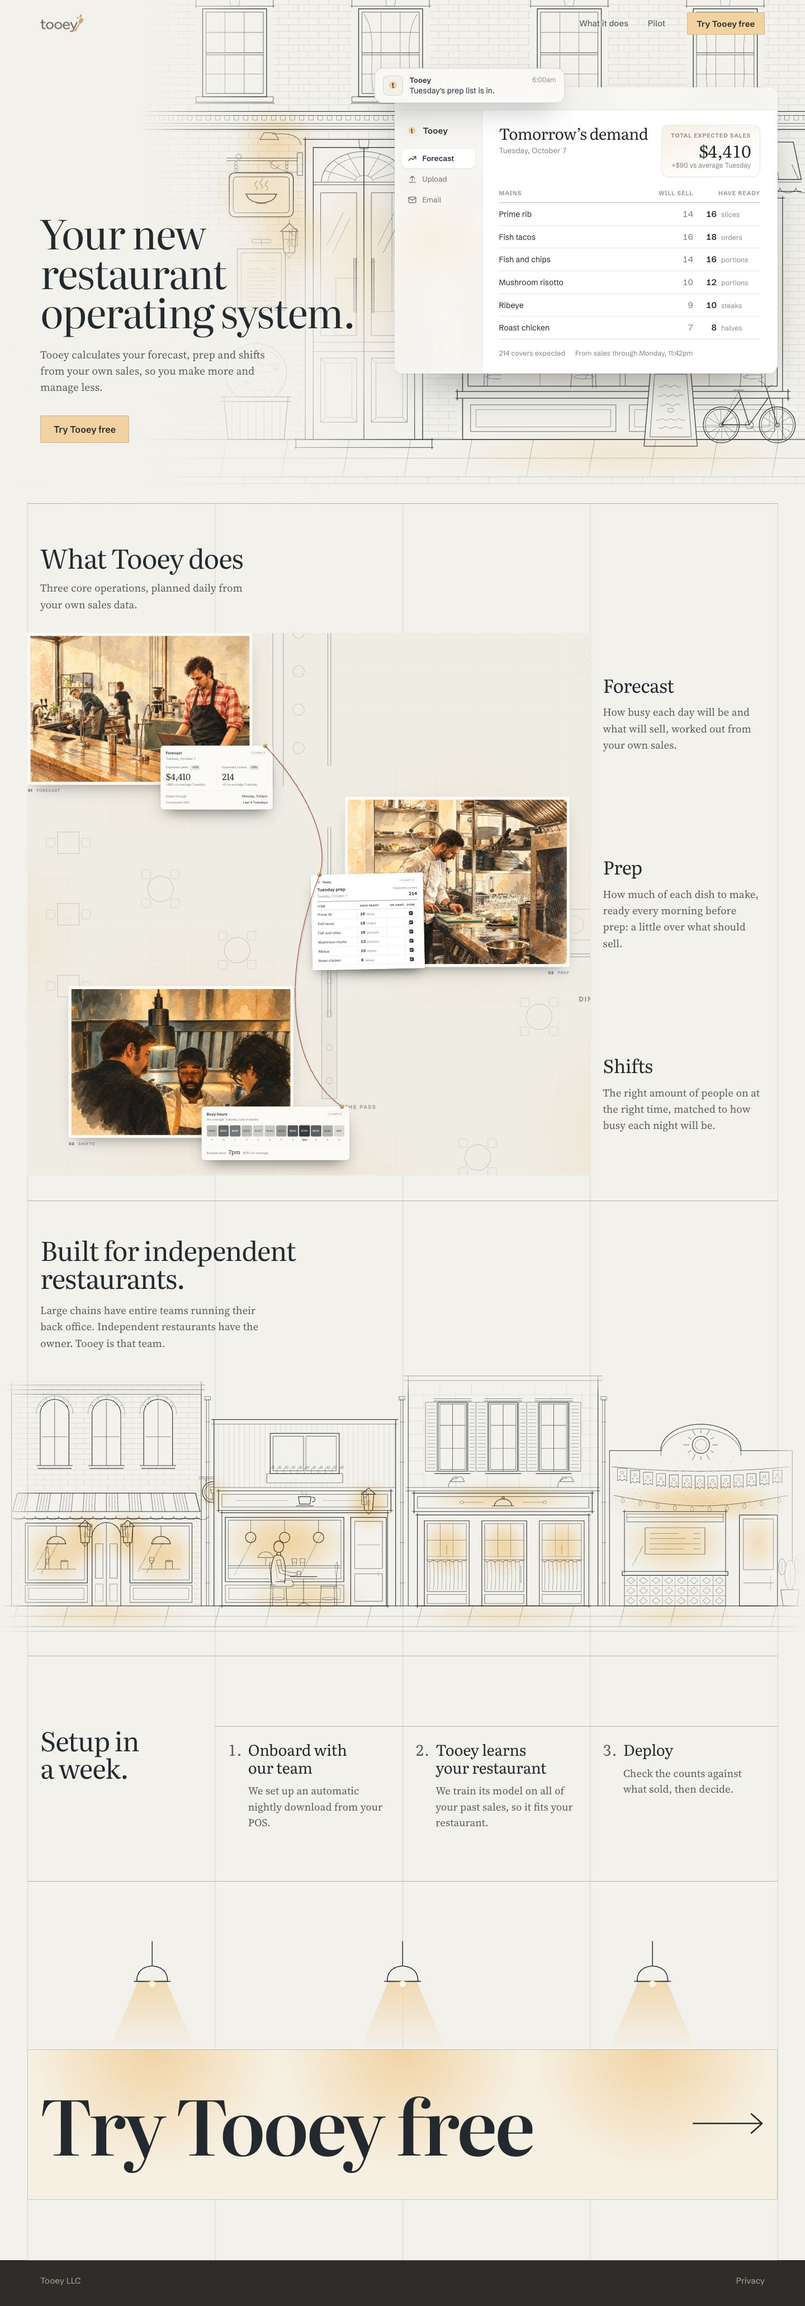
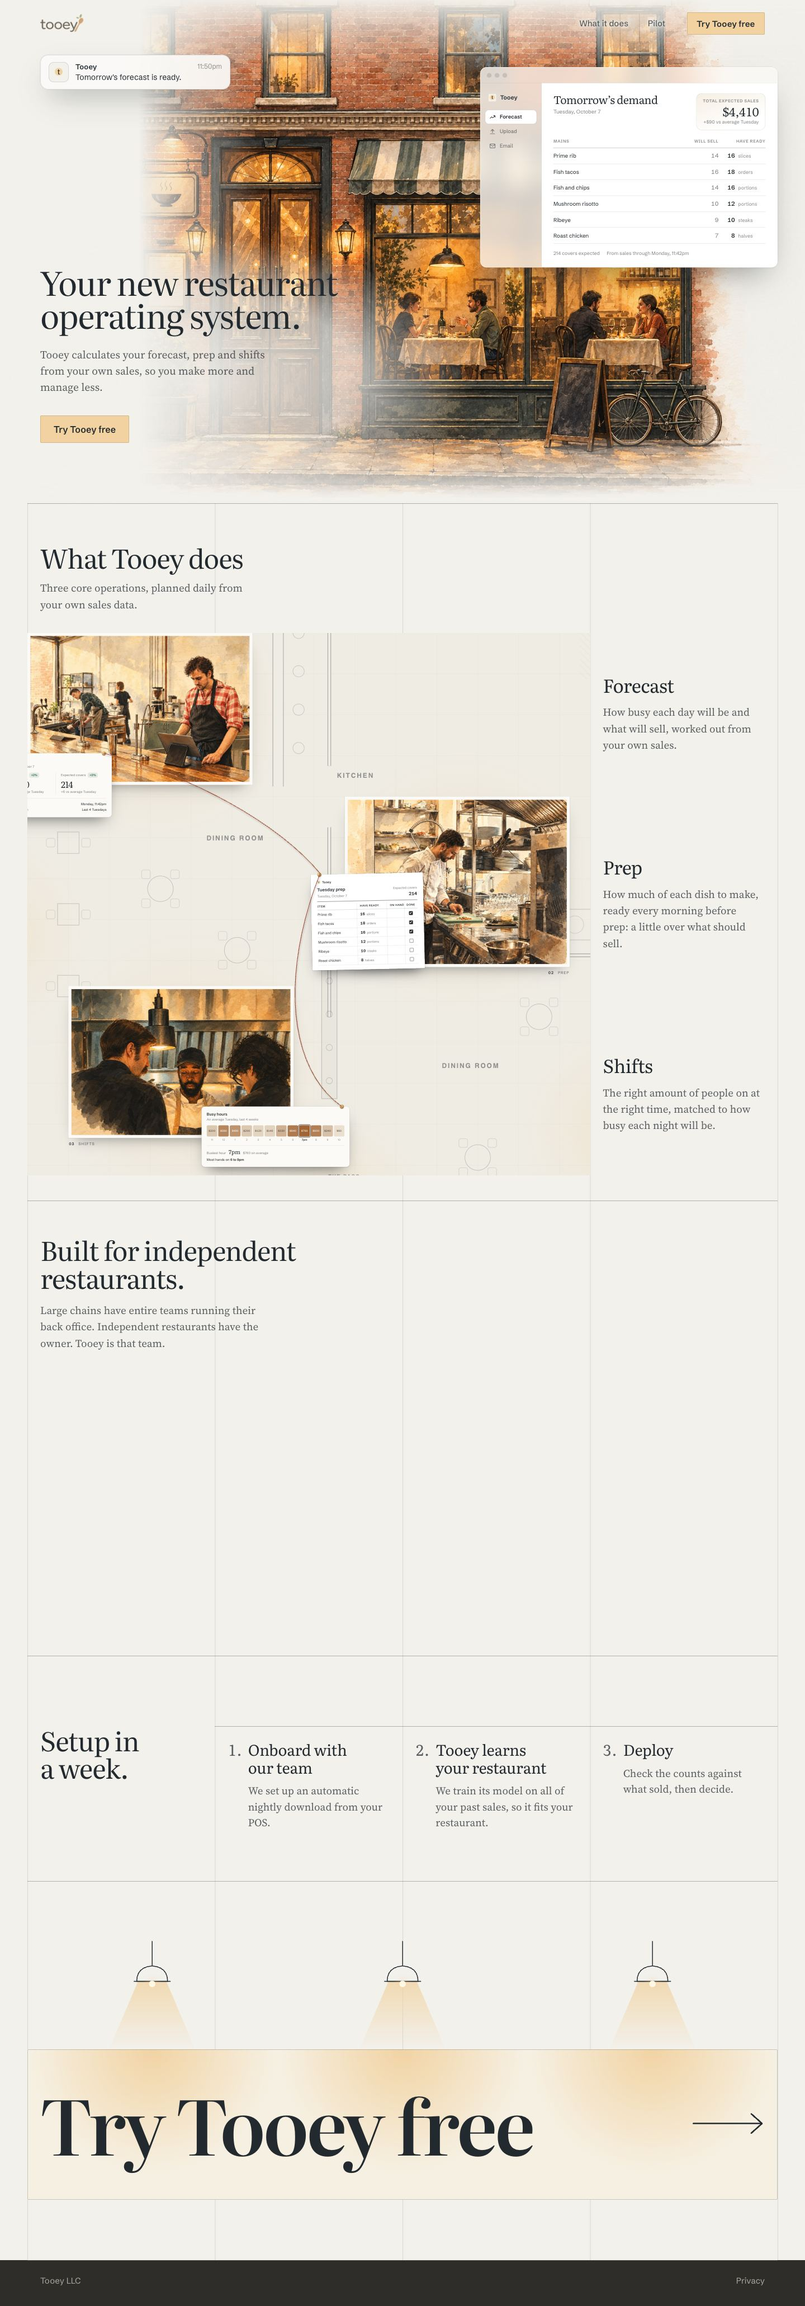
Exploration 49: painted street and shops, night-before notification, cards that point at the scene
The hero front and the four independents are ink and watercolour paintings
like the three scenes; the line drawings stay at ?art=line. The console
window is smaller and up over the first floor so the door and diners show.
Its notification moves to Monday 11:50pm to agree with Tomorrow's demand.
Headline one step smaller. Forecast card on the empty bar, prep sheet half
ticked, busy hours in paper to amber with a staffing line, plan labels
clear of the glass and pins. Gallery shot retaken.

diff --git a/explorations/49-ink/styles.css b/explorations/49-ink/styles.css
@@ -401,10 +401,10 @@ html:not(.motion) .steam { stroke-opacity: .3; }
 .hero h1 {
   font-family: var(--display);
   font-weight: 400;
-  font-size: clamp(2.9rem, 5vw, 5.2rem);
-  line-height: .98;
-  letter-spacing: -.028em;
-  max-width: 9em;
+  font-size: clamp(2.5rem, 4.1vw, 4.3rem);
+  line-height: 1;
+  letter-spacing: -.026em;
+  max-width: 11em;
   text-wrap: balance;
 }
 .lead {
@@ -611,10 +611,12 @@ html:not(.motion) .steam { stroke-opacity: .3; }
   background: radial-gradient(circle at 35% 30%, #f6dcae, #b8874a 60%, #7a5428);
   box-shadow: 0 2px 3px rgba(10, 14, 18, .35);
 }
-.c-forecast .pin, .c-hours .pin { right: 22px; top: -8px; }
+.c-hours .pin { right: 22px; top: -8px; }
+.c-forecast .pin { right: 22px; top: -8px; }
 .c-sheet .pin { left: 26px; top: -8px; }
 /* the cards on the board, by scene */
-.board .c-forecast { left: 520px; top: 440px; width: 440px; bottom: auto; }
+/* on the empty bar in the foreground, clear of the laptop he is reading */
+.board .c-forecast { left: -110px; top: 470px; width: 440px; bottom: auto; }
 .board .c-sheet { left: -130px; top: 300px; width: 440px; bottom: auto; }
 .board .c-hours { left: 520px; top: 470px; width: 580px; bottom: auto; transform: none; }
 .board .card { z-index: 3; }
@@ -721,16 +723,18 @@ html:not(.motion) .steam { stroke-opacity: .3; }
   display: grid; place-items: center;
   width: 100%; height: 44px; border-radius: 5px;
   font-size: 10.5px; font-weight: 500;
-  background: color-mix(in srgb, var(--slate) calc(var(--v) * 92%), #e9e7e0);
+  background: color-mix(in srgb, #9c5a26 calc(var(--v) * 94%), #f1ebdd);
   color: rgba(35, 42, 47, .75);
 }
 .heat-cell.is-dark b { color: #fbfaf7; }
 .heat-cell i { font-style: normal; font-size: 10.5px; color: rgba(35, 42, 47, .55); }
 .heat-cell.is-peak i { color: var(--slate); font-weight: 600; }
-.heat-cell.is-peak b { box-shadow: 0 0 0 2px #fbfaf7, 0 0 0 3.5px var(--lamp); }
+.heat-cell.is-peak b { box-shadow: 0 0 0 2px #fbfaf7, 0 0 0 3.5px var(--slate); }
 .c-busiest { display: flex; align-items: baseline; gap: 10px; margin-top: 14px; padding-top: 12px; border-top: 1px solid var(--rule); font-size: 13px; color: rgba(35, 42, 47, .62); }
 .c-busiest b { font: 400 22px/1 var(--display); color: var(--slate); }
 .c-busiest .c-note { margin: 0; }
+.c-staff { margin-top: 8px !important; font-size: 13px; color: var(--slate); }
+.c-staff b { font-weight: 600; }
 
 /* ---------- the cards play when the camera reaches their scene ----------
    The cards stay pinned up all along; what is on them plays. */
@@ -740,6 +744,9 @@ html:not(.motion) .steam { stroke-opacity: .3; }
 .prep-sheet tr:nth-child(2) .box { --i: 1; } .prep-sheet tr:nth-child(3) .box { --i: 2; } .prep-sheet tr:nth-child(4) .box { --i: 3; }
 .prep-sheet tr:nth-child(5) .box { --i: 4; } .prep-sheet tr:nth-child(6) .box { --i: 5; }
 .motion .work.is-pinned .shot.play .box::after { animation: fade .2s calc(1.9s + var(--i, 0) * 260ms) both; }
+/* half way through the morning: three made, three to go */
+.c-sheet tr:nth-child(n+4) .box, .motion .work.is-pinned .shot.play .c-sheet tr:nth-child(n+4) .box { background: transparent; animation: none; }
+.c-sheet tr:nth-child(n+4) .box::after { display: none; }
 /* hours: the day fills in, left to right */
 .motion .work.is-pinned .shot:not(.play) .heat-cell b { opacity: 0; }
 .motion .work.is-pinned .shot.play .heat-cell b { animation: cell .5s calc(.9s + var(--i) * 70ms) cubic-bezier(.2, .8, .2, 1) both; }
@@ -747,7 +754,7 @@ html:not(.motion) .steam { stroke-opacity: .3; }
 
 @keyframes tick-box { from { background: transparent; } to { background: var(--slate); } }
 @keyframes cell { from { opacity: 0; transform: scaleY(.4); } to { opacity: 1; transform: none; } }
-@keyframes peak { from { box-shadow: 0 0 0 2px #fbfaf7, 0 0 0 3.5px rgba(241, 210, 160, 0); } to { box-shadow: 0 0 0 2px #fbfaf7, 0 0 0 3.5px var(--lamp); } }
+@keyframes peak { from { box-shadow: 0 0 0 2px #fbfaf7, 0 0 0 3.5px rgba(35, 42, 47, 0); } to { box-shadow: 0 0 0 2px #fbfaf7, 0 0 0 3.5px var(--slate); } }
 @keyframes fade { from { opacity: 0; } to { opacity: 1; } }
 
 /* ---------- the hero: the console over the street ----------
@@ -757,8 +764,10 @@ html:not(.motion) .steam { stroke-opacity: .3; }
 [data-hero="console"] .hero-os [data-hero="console"],
 [data-hero="mail"] .hero-os [data-hero="mail"],
 [data-hero="sheet"] .hero-os [data-hero="sheet"] { display: block; }
+.hero-os .h-console { left: auto; width: 760px; top: calc(var(--top) + 4vh); scale: .7; transform-origin: right top; }
 
-/* a window, glass at the chrome, running off the right edge */
+/* a window, glass at the chrome, up over the first floor so the door and
+   the lit dining room stay in view */
 .h-win {
   position: absolute; left: 49vw; right: var(--g); top: calc(var(--top) + 8vh);
   border-radius: 16px;
@@ -845,6 +854,7 @@ html:not(.motion) .steam { stroke-opacity: .3; }
 .note-mark img { width: 22px; height: 22px; }
 .note-text b { display: block; font-weight: 600; font-size: 13px; }
 .note-time { align-self: start; font-size: 12px; color: rgba(35, 42, 47, .5); }
+[data-hero="console"] .note-morning, html:not([data-hero="console"]) .note-night { display: none; }
 [data-hero="console"] .note { top: calc(var(--top) + 14px); right: auto; left: calc(var(--g) + var(--pad)); z-index: 2; box-shadow: 0 0 0 .5px rgba(35, 42, 47, .1), 0 24px 50px -18px rgba(35, 42, 47, .45); }
 [data-hero="note"] .note { right: calc(var(--g) + var(--pad)); box-shadow: 0 0 0 .5px rgba(35, 42, 47, .1), 0 24px 50px -18px rgba(35, 42, 47, .45); }
 [data-hero="sheet"] .note { top: auto; bottom: 10vh; right: auto; left: calc(55vw + 300px); }
@@ -900,6 +910,39 @@ html:not(.motion) .steam { stroke-opacity: .3; }
     linear-gradient(to bottom, transparent 0%, #000 12%, #000 90%, transparent 100%);
   mask-composite: intersect;
 }
+/* ---------- the painted street and shops (art/, see NOTES.md) ----------
+   The paintings lie over the line drawings, which stay in the page for
+   ?art=line. The lights come up as each scene plays. */
+.paint { display: none; }
+[data-art="paint"] .scene .art { visibility: hidden; }
+[data-art="paint"] .paint {
+  display: block; position: absolute; inset: 0;
+  width: 100%; height: 100%; object-fit: cover;
+}
+[data-art="paint"] .scene-hero .paint {
+  -webkit-mask-image:
+    linear-gradient(to right, transparent 0%, rgba(0,0,0,.5) 7%, #000 18%),
+    linear-gradient(to bottom, transparent 0%, transparent 6%, #000 20%, #000 88%, transparent 100%);
+  -webkit-mask-composite: source-in;
+  mask-image:
+    linear-gradient(to right, transparent 0%, rgba(0,0,0,.5) 7%, #000 18%),
+    linear-gradient(to bottom, transparent 0%, transparent 6%, #000 20%, #000 88%, transparent 100%);
+  mask-composite: intersect;
+}
+[data-art="paint"] .scene-street .paint {
+  object-position: center bottom;
+  -webkit-mask-image:
+    linear-gradient(to right, transparent 0%, #000 5%, #000 95%, transparent 100%),
+    linear-gradient(to bottom, transparent 0%, #000 22%, #000 90%, transparent 100%);
+  -webkit-mask-composite: source-in;
+  mask-image:
+    linear-gradient(to right, transparent 0%, #000 5%, #000 95%, transparent 100%),
+    linear-gradient(to bottom, transparent 0%, #000 22%, #000 90%, transparent 100%);
+  mask-composite: intersect;
+}
+.motion[data-art="paint"] .paint { transition: filter 1.8s ease; }
+.motion[data-art="paint"] .scene:not(.play) .paint { filter: brightness(.7) saturate(.65); }
+
 /* each shop's lamps come on in turn as the street scrolls in: a short ramp
    from each wash's own threshold (--s), scrubbed by --lit */
 .w.shop { opacity: calc(var(--a, 1) * clamp(0, (var(--lit, 1) - var(--s, 0)) * 6, 1)); }

diff --git a/explorations/49-ink/index.html b/explorations/49-ink/index.html
@@ -15,6 +15,8 @@
     r.classList.add('js');
     var h = new URLSearchParams(location.search).get('hero');
     r.setAttribute('data-hero', /^(console|mail|sheet|note)$/.test(h) ? h : 'console');
+    // the street and the shops are painted; ?art=line shows the line drawings
+    r.setAttribute('data-art', new URLSearchParams(location.search).get('art') === 'line' ? 'line' : 'paint');
     if (!window.matchMedia('(prefers-reduced-motion: reduce)').matches) {
       r.classList.add('motion');
       // the headline waits to be typed (site.js); never longer than 3s
@@ -41,7 +43,7 @@
 
   <!-- Hero: the street front. Its lights come on as the page loads. -->
   <section class="hero sheet" aria-labelledby="hero-title">
-    <figure class="scene scene-hero" data-scene="street" aria-hidden="true"><div class="art"></div></figure>
+    <figure class="scene scene-hero" data-scene="street" aria-hidden="true"><div class="art"></div><img class="paint" src="art/street.jpg" alt="" width="1402" height="1122" decoding="async"></figure>
     <!-- Four takes over the street, chosen by ?hero= (console, mail,
          sheet, note). The first three carry the console's demo restaurant;
          note is the 6am notification alone. -->
@@ -129,8 +131,11 @@
       </div>
       <div class="note">
         <span class="note-mark"><img src="favicon.svg" alt=""></span>
-        <span class="note-text"><b>Tooey</b>Tuesday's prep list is in.</span>
-        <span class="note-time">6:00am</span>
+        <!-- the console shows tomorrow, so its note comes the night before -->
+        <span class="note-text note-night"><b>Tooey</b>Tomorrow's forecast is ready.</span>
+        <span class="note-time note-night">11:50pm</span>
+        <span class="note-text note-morning"><b>Tooey</b>Tuesday's prep list is in.</span>
+        <span class="note-time note-morning">6:00am</span>
       </div>
     </div>
     <div class="hero-copy">
@@ -242,8 +247,9 @@
                 <div class="heat-cell" style="--v:.08;--i:11"><b>$60</b><i>10</i></div>
               </div>
               <p class="c-busiest"><span>Busiest hour</span><b>7pm</b><span class="c-note">$760 on average</span></p>
+              <p class="c-staff">Most hands on <b>6 to 9pm</b></p>
             </div>
-            <figcaption class="sr">The kitchen team together at the pass before service. Example busy hours for an average Tuesday: sales by hour from 11am to 10pm, busiest at 7pm with $760 on average.</figcaption>
+            <figcaption class="sr">The kitchen team together at the pass before service. Example busy hours for an average Tuesday: sales by hour from 11am to 10pm, busiest at 7pm with $760 on average, so the most people are on from 6 to 9pm.</figcaption>
           </figure>
         </div>
         </div>
@@ -277,7 +283,7 @@
       <h2 id="indie-title">Built for independent restaurants.</h2>
       <p>Large chains have entire teams running their back office. Independent restaurants have the owner. Tooey is that team.</p>
     </div>
-    <figure class="scene scene-street" data-scene="indies" aria-hidden="true"><div class="art"></div></figure>
+    <figure class="scene scene-street" data-scene="indies" aria-hidden="true"><div class="art"></div><img class="paint" src="art/indies.jpg" alt="" width="2172" height="724" loading="lazy" decoding="async"></figure>
   </section>
 
   <!-- How to start. -->

diff --git a/explorations/_gallery/data.js b/explorations/_gallery/data.js
@@ -622,10 +622,10 @@ window.EXPLORATIONS = [
     line: '48 with the same camera and thread, where the scenes are drawn, the board is the restaurant\'s floor plan, and the words float on glass over it.',
     brief: 'Round nineteen: Rex found 48\'s finish still read as a photograph and asked for a drawn but realistic option, a background that does more, and the words overlaid so things pass under them, Apple-like.',
     headline: 'Your new restaurant operating system.',
-    concept: 'The board is one restaurant\'s floor plan, each scene pinned where it happens (counter, kitchen, pass). The plan moves a little slower than the scenes, for depth. The words sit on a frosted panel; the camera frames each scene in the room left of it. The hero is the console\'s own window, its Forecast page over the street, with the 6am notification on its corner.',
+    concept: 'The board is one restaurant\'s floor plan, each scene pinned where it happens (counter, kitchen, pass). The plan moves a little slower than the scenes, for depth. The words sit on a frosted panel; the camera frames each scene in the room left of it. The hero is the console\'s own window, its Forecast page up over a painted street, with the night-before notification beside it.',
     look: '48\'s page, with ink and watercolour illustrations made from the stand-in photographs, a faint architect\'s plan with warm lamp pools behind them, and a frosted glass panel whose current step is a raised white tile.',
     strengths: ['Reads as drawn, keeps real rooms and people.', 'The floor plan gives the camera a place to move through.', 'The glass panel lets the board run full width and pass under the words.'],
-    weaknesses: ['The illustrations are AI-generated, from three different restaurants.', 'The floor plan is invented.', 'Shifts still shows Busy hours.'],
+    weaknesses: ['The illustrations are AI-generated, from three different restaurants and two drawings.', 'The floor plan is invented.', 'Shifts still shows Busy hours, with a staffing line the console does not have yet.'],
     ask: 'Is drawn the right direction, and does the plan and glass make the section feel finished?',
     pages: [{ label: 'Home', href: '49-ink/index.html' }, { label: 'Privacy', href: '49-ink/privacy.html' }]
   }

diff --git a/explorations/49-ink/plan.py b/explorations/49-ink/plan.py
@@ -106,13 +106,13 @@ for k in range(8):
 label(1850, 1235, "THE LINE", 20, .36, "middle")
 rect(1300, -150, 520, 110, .24, 1.6)           # dish
 label(1560, -170, "DISH", 20, .34, "middle")
-label(2380, 1235, "KITCHEN", 26, .46, "end")
+label(1210, 566, "KITCHEN", 26, .46)  # above the prep scene, clear of the glass
 
 # the pass: the opening in the kitchen wall, with its shelf and heat lamps
 rect(1150, 1300, 60, 520, .3, 1.8, fill="rgba(35,42,47,.03)")
 for k in range(4):
     circle(1180, 1360 + k * 130, 12, .3, 1.4)
-label(1240, 1860, "THE PASS", 20, .4)
+label(1300, 2130, "THE PASS", 20, .4, "end")  # under the shifts card, clear of its pin
 
 # the counter and its stools (top left); the bar back along the wall
 add(f'<path d="M 40 -120 L 980 -120 L 980 600" fill="none" stroke="{INK}" stroke-opacity=".3" stroke-width="44" stroke-linejoin="round"/>')
@@ -133,8 +133,8 @@ for x in (-200, 60, 320, 580, 840, 1100):
     table_two(x, 2440, True)
 add(f'<path d="M -330 2520 L 1260 2520" stroke="{INK}" stroke-opacity=".26" stroke-width="40"/>')
 add(f'<path d="M -330 2520 L 1260 2520" stroke="#efece4" stroke-width="34"/>')
-label(-300, 760, "DINING ROOM", 26, .46)
-label(2380, 1440, "DINING ROOM", 26, .46, "end")
+label(700, 810, "DINING ROOM", 26, .46)  # inside the view at the first stop, clear of the card
+label(1620, 1700, "DINING ROOM", 26, .46)
 label(-300, 2380, "BANQUETTE", 20, .34)
 
 # dimension lines along the top, like a drawing set

diff --git a/explorations/49-ink/NOTES.md b/explorations/49-ink/NOTES.md
@@ -21,6 +21,15 @@ He wanted an option that looks drawn but real, a background that does more than 
    The hero window and the three cards in What Tooey does carry no Example tag, at Rex's word. The screen reader captions still say the figures are an example.
    The Will sell figures are not in the demo data: each is set a little under its Have ready amount, as prep is defined.
 
+## Round twenty (2026-10-20)
+Rex liked 49 and took most of a review's suggestions.
+- **Painted street and shops.** The hero's restaurant front and the four independents are now ink and watercolour paintings like the three scenes (`art/street.jpg`, `art/indies.jpg`), so the page reads as one book. They lie over the line drawings, which stay for comparison at `?art=line`. Each painting comes up from dim as its scene plays. The lamp that followed the pointer and the guest who sits down are line-drawing effects and do not show over the paintings.
+- **The hero shows the street.** The console window is smaller and sits up over the first floor, so the door, the lanterns and both tables of diners stay in view.
+- **Night before.** The window keeps "Tomorrow's demand", so its notification is now Monday 11:50pm, "Tomorrow's forecast is ready.", just after the 11:42pm sales it is built from. The other hero takes keep the 6am note.
+- **Headline** one step smaller, two lines, same words.
+- **Cards.** The forecast card sits on the empty bar so the tablet he reads stays in view. The prep sheet is half way through the morning: three made, three to go. Busy hours keeps its title, runs paper to amber instead of grey, and gains "Most hands on 6 to 9pm" (the three busiest hours). That line is not in the console today; it says what the Shifts words promise.
+- **Plan labels** moved so none is cut by the glass, the view's edge or a pin at a stop.
+
 ## The pictures
 The illustrations were made with Codex's image generation tool (`image_gen`, its model is not disclosed), from these free Unsplash photographs as references (originals in `photos/raw/`):
 
@@ -29,11 +38,13 @@ The illustrations were made with Codex's image generation tool (`image_gen`, its
 | `forecast` | https://unsplash.com/photos/X_bbCAYzlTs |
 | `prep` | https://unsplash.com/photos/y-XZf_TNRms (the blurry wall on the left cropped off) |
 | `shifts` | https://unsplash.com/photos/VUd9yv41hh0 |
+| `street`, `indies` | No photograph: the page's own line drawings (`_src/ref/`) and the three scenes for style; prompt in `_src/paint/prompt.md` |
 
 They are AI-generated, which is a different promise from a photograph or a commissioned drawing.
 Hands and faces were checked at full size; none looked wrong.
 At Rex's request the man at the counter in `forecast` has tight curly hair; only his head was regenerated and pasted back, so his face and the rest of the drawing are unchanged.
 At Rex's request the man in the back on the left of `forecast` is drawn as East Asian; only his head was regenerated and pasted back.
+`street` (1402px) and `indies` (2172px) are a little soft on a large screen.
 Generated at a smaller size and enlarged to 1800 and 1600px wide, so they are soft up close.
 Before anything like this ships, an illustrator drawing from one real restaurant is the better source.
 

diff --git a/explorations/49-ink/_src/paint/prompt.md b/explorations/49-ink/_src/paint/prompt.md
@@ -1,0 +1,9 @@
+Use your image generation tool to make two illustrations, then copy each generated image file into this folder: /Users/rexchao/Projects/Tooey-project/TooeyWebsite/explorations/49-ink/_src/paint/
+
+Style for both (match it closely): the three existing illustrations in /Users/rexchao/Projects/Tooey-project/TooeyWebsite/explorations/49-ink/art/forecast-1100.jpg, prep-1100.jpg and shifts-1100.jpg. Fine ink linework with watercolour and gouache washes, visible paper texture, warm amber interior light, muted brick reds, wood browns, slate and sage. Cinematic illustrated realism, not cartoon, not flat vector. Look at those three images before generating.
+
+1. street.png, landscape 5:4 (for example 1500x1200). Composition: follow /Users/rexchao/Projects/Tooey-project/TooeyWebsite/explorations/49-ink/_src/ref/street.png exactly in layout. A brick restaurant front at dusk, seen straight on: four sash windows on the upper floor, a cornice, a tall double wooden door with a fanlight on the left, two wall lanterns lit, a hanging sign with a bowl on it and a framed menu on the far left, a round shrub in a planter bottom left, a striped awning over a wide shop window on the right, through which two small tables of diners sit under two pendant lamps glowing warm, a bottle shelf at the back, an A-frame chalkboard on the pavement and a bicycle leaning by the window. The right 15% of the canvas and the top band fade into plain warm off-white paper (#f2f1ec), so it can sit on a page of that colour. No text or lettering anywhere.
+
+2. indies.png, wide panoramic about 3.2:1 (for example 2400x750). Composition: follow /Users/rexchao/Projects/Tooey-project/TooeyWebsite/explorations/49-ink/_src/ref/indies.png exactly in layout. Four small independent restaurant fronts side by side on one street at dusk, lights coming on: a brick wine bar with three arched windows and a striped awning, a narrow cafe with a person at a window counter and round pendant lamps, a taller bistro with shuttered windows and three curtained French doors, and a little taqueria with papel picado bunting, string lights and a tiled base with a cactus pot. Warm light in every window. The sky and the edges fade into plain warm off-white paper (#f2f1ec). No text, no signs with lettering, no logos.
+
+Faces and hands must look right. Do not alter any other files. When done, print the two saved file paths.

diff --git a/docs/plans/explorations.md b/docs/plans/explorations.md
@@ -357,3 +357,18 @@ Built as 49 (`explorations/49-ink/`), 48 with its exact words.
 - [x] The words on a frosted glass panel over a full-width board; the camera frames each scene left of it
 - [x] Reviewed at 1440 at each stop and mid-way, and reduced motion; gallery entry and shots
 - [ ] Rex decides on drawn versus photographed, and on the plan and glass
+
+## Round twenty (2026-10-20)
+
+Rex likes 49 and asked how to make it better. From the review he took: paint the hero and the street to match the scenes, let the hero show the street, a staffing line on the Busy hours card (the title stays), cards that point at what the person is doing, plan labels clear of the glass, a warm busy-hours chart, a smaller headline (same words), and a notification that agrees with "Tomorrow's demand" (the window keeps its title).
+Worked in 49 itself; the line drawings stay behind `?art=line` for comparison.
+
+- [x] Notification moved to the night before, to agree with "Tomorrow's demand"
+- [x] Headline one step smaller
+- [x] Hero window smaller and up over the first floor, so the door and diners show
+- [x] Busy hours card gains a staffing line; chart in paper to amber
+- [x] Prep sheet half ticked; forecast card placed off the laptop
+- [x] Plan labels clear of the glass and the view's edges
+- [x] Hero street and the four shops painted in the scenes' ink and watercolour (Codex image generation, from the line drawings)
+- [x] Reviewed at 1440 at every stop; gallery shot and notes
+- [ ] Rex: does the forecast picture say forecasting, or does it need a new scene
